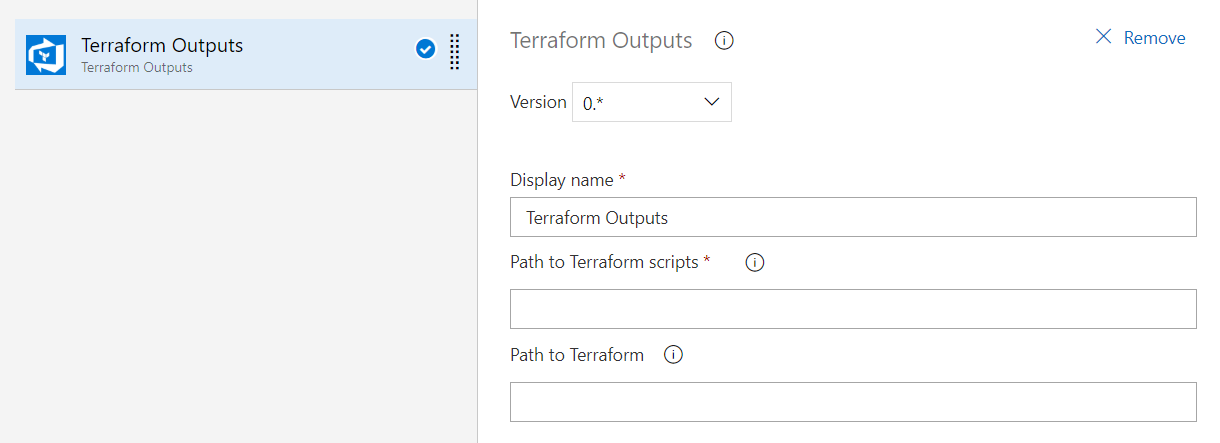
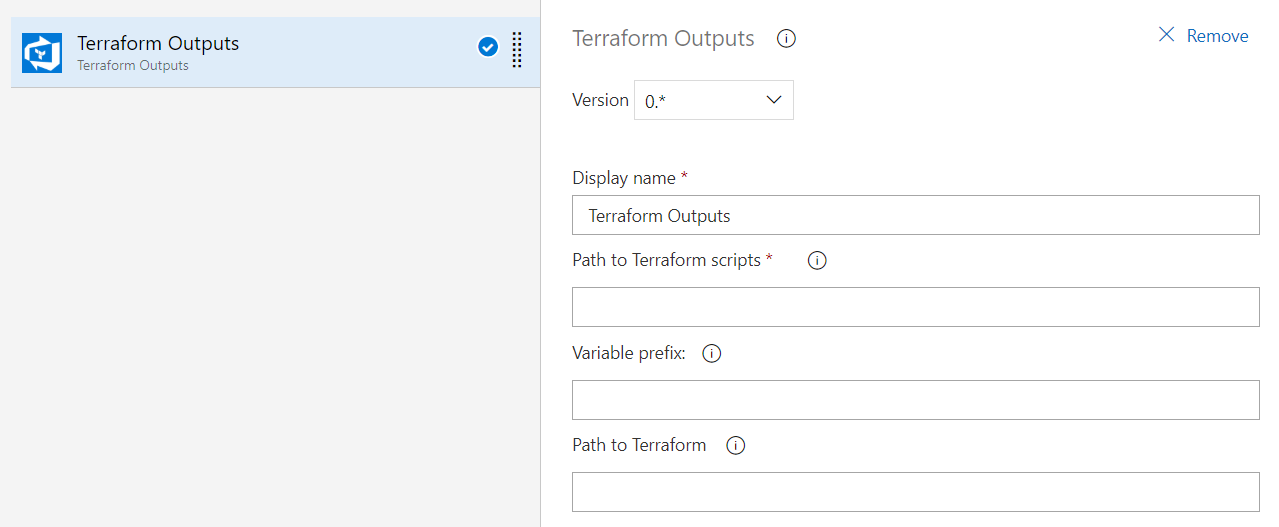
Update documentation according to new input

diff --git a/README.md b/README.md
@@ -8,11 +8,50 @@ This extension enables you to use the Terraform outputs as variables in your Azu
 
 This task will execute 'terraform output -json' command within the provided "Path to Terraform scripts" and map all these values to pipeline variables.
 
+You can also provide a common prefix that will be applied to each of the variable names.
+
 Optionally a path to Terraform assembly can be provided. If it's available in PATH this value can be leave empty.
 
+## Build pipeline
 
-## CI Build pipeline
 [![Build status](https://dev.azure.com/raul-arrieta/Terraform%20Outputs/_apis/build/status/CI.Terraform-Outputs.Master)](https://dev.azure.com/raul-arrieta/Terraform%20Outputs/_build/latest?definitionId=1)
 
-## CD Release pipeline
-[![Development](https://vsrm.dev.azure.com/raul-arrieta/_apis/public/Release/badge/08ec166f-369d-440c-9dec-3b2a2d8888f9/1/1)](https://dev.azure.com/raul-arrieta/Terraform%20Outputs/_release?view=mine&definitionId=1) [![Validation](https://vsrm.dev.azure.com/raul-arrieta/_apis/public/Release/badge/08ec166f-369d-440c-9dec-3b2a2d8888f9/1/2)](https://dev.azure.com/raul-arrieta/Terraform%20Outputs/_release?view=mine&definitionId=1) [![Production](https://vsrm.dev.azure.com/raul-arrieta/_apis/public/Release/badge/08ec166f-369d-440c-9dec-3b2a2d8888f9/1/3)](https://dev.azure.com/raul-arrieta/Terraform%20Outputs/_release?view=mine&definitionId=1)
+CI build pipeline that packages the vsix extension and publishes two artifacts:
+- terraform-outputs-extension: includes the packaged extension.
+- terraform-test: contains .tf files and a powershell script used to validate the extension.
+
+
+## Release pipeline
+
+CD release pipeline is composed of three different stages:
+
+### Development:
+
+[![Development](https://vsrm.dev.azure.com/raul-arrieta/_apis/public/Release/badge/08ec166f-369d-440c-9dec-3b2a2d8888f9/1/1)](https://dev.azure.com/raul-arrieta/Terraform%20Outputs/_release?view=mine&definitionId=1) 
+
+Publishes a private version of the extension tagged as "development". 
+
+Before running next stage there is a deployment gate to check that the extension has been successfully validated by the marketplace.
+
+### Validation:
+
+[![Validation](https://vsrm.dev.azure.com/raul-arrieta/_apis/public/Release/badge/08ec166f-369d-440c-9dec-3b2a2d8888f9/1/2)](https://dev.azure.com/raul-arrieta/Terraform%20Outputs/_release?view=mine&definitionId=1) 
+
+Executes the same task group on three different hosted agents:
+- Windows Validation: Hosted VS2017 agent pool.
+- Linux Validation: Hosted Ubuntu 1604 agent pool.
+- MacOS Validation: Hosted macOS agent pool.
+
+The task group:
+- Installs the extension that has been published on Development stage.
+- Installs Terraform and executes init and apply using 'terraform-test' published artifact.
+- Run Terraform Outputs without prefix.
+- Executes a powershell to check that the variable has been published and contains the appropriate value.
+- Run Terraform Outputs with prefix.
+- Executes a powershell to check that the variable has been published using the provided prefix and contains the appropriate value.
+
+### Production
+
+[![Production](https://vsrm.dev.azure.com/raul-arrieta/_apis/public/Release/badge/08ec166f-369d-440c-9dec-3b2a2d8888f9/1/3)](https://dev.azure.com/raul-arrieta/Terraform%20Outputs/_release?view=mine&definitionId=1)
+
+Once it has been approved this stage publishes the extension to the marketplace.
